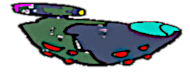
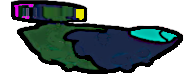
checkpoint

diff --git a/OLD/server/src/level/level3/enemy_mega3.ts b/OLD/server/src/level/level3/enemy_mega3.ts
@@ -12,7 +12,7 @@ import * as Lemk from '../enemy_mk';
 import * as K from '../../konfig';
 
 // match: sprite animation.
-const SIZE = G.v2d_scale(G.v2d_mk(190, 75), 0.3);
+const SIZE = G.v2d_scale(G.v2d_mk(95, 33), 0.75);
 const WARPIN_RESOURCE_ID = "enemies/e17/e17l.png";
 const Mega: Lemk.EnemyMk = {
     SIZE,
@@ -25,12 +25,12 @@ const Mega: Lemk.EnemyMk = {
             'wr': Ebw.weapon_mk(ewsr),
 	};
 	const acc_base = G.v2d_mk(
-            K.PLAYER_DELTA_X_ACC * 0.3,
+            K.PLAYER_DELTA_X_ACC * 0.5,
             K.PLAYER_DELTA_X_ACC * 0.1
 	);
 	const acc = Rnd.singleton.v2d_around(
             acc_base,
-            G.v2d_scale(acc_base, 0.5)
+            G.v2d_scale(acc_base, 0.3)
 	);
 	const flight_pattern = new Fp.BuzzPlayer(db, acc);
 	return Emk.warpin_mk(

diff --git a/OLD/server/src/level/level3/enemy_small3.ts b/OLD/server/src/level/level3/enemy_small3.ts
@@ -12,7 +12,7 @@ import * as Lemk from '../enemy_mk';
 import * as K from '../../konfig';
 
 // match: sprite animation.
-const SIZE = G.v2d_scale_i(G.v2d_mk(36, 75), 1);
+const SIZE = G.v2d_scale_i(G.v2d_mk(36, 75), 0.7);
 const WARPIN_RESOURCE_ID = "enemies/e16/e16l.png";
 const Small: Lemk.EnemyMk = {
     SIZE,
